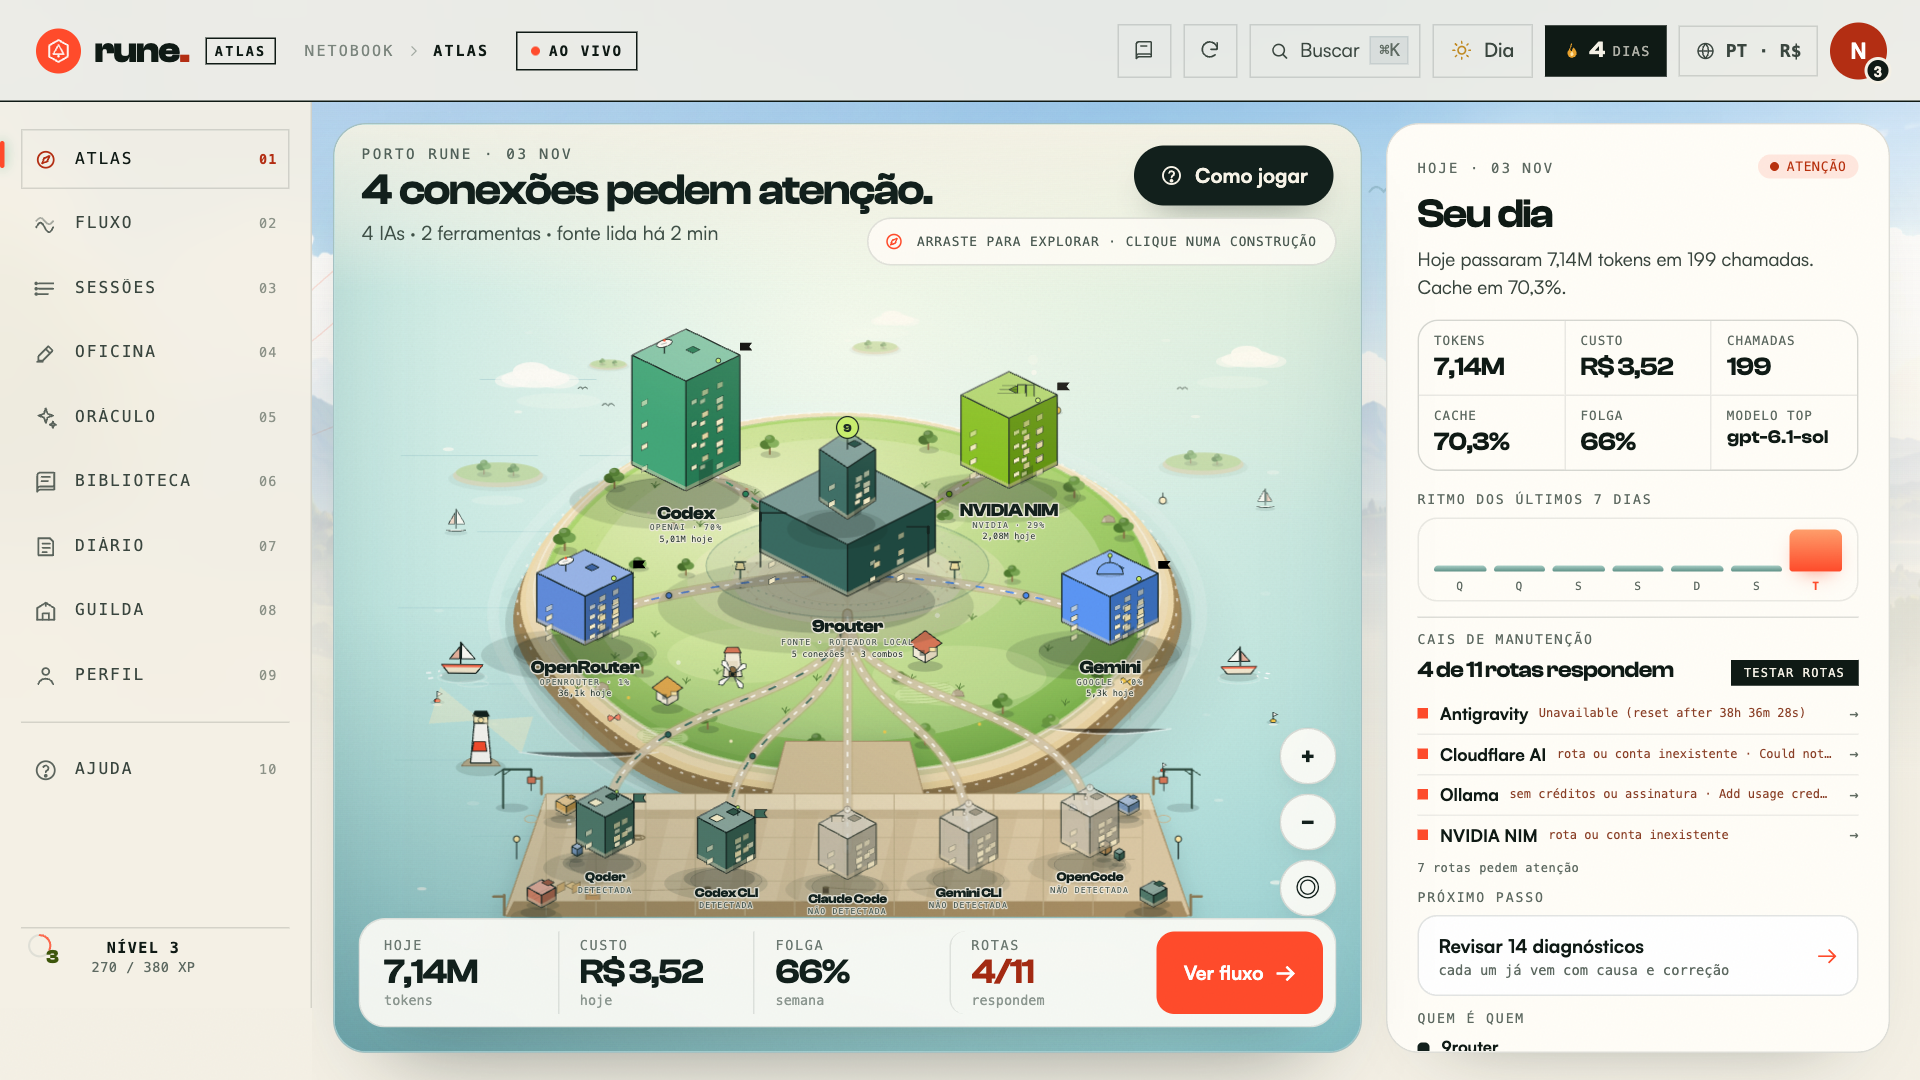
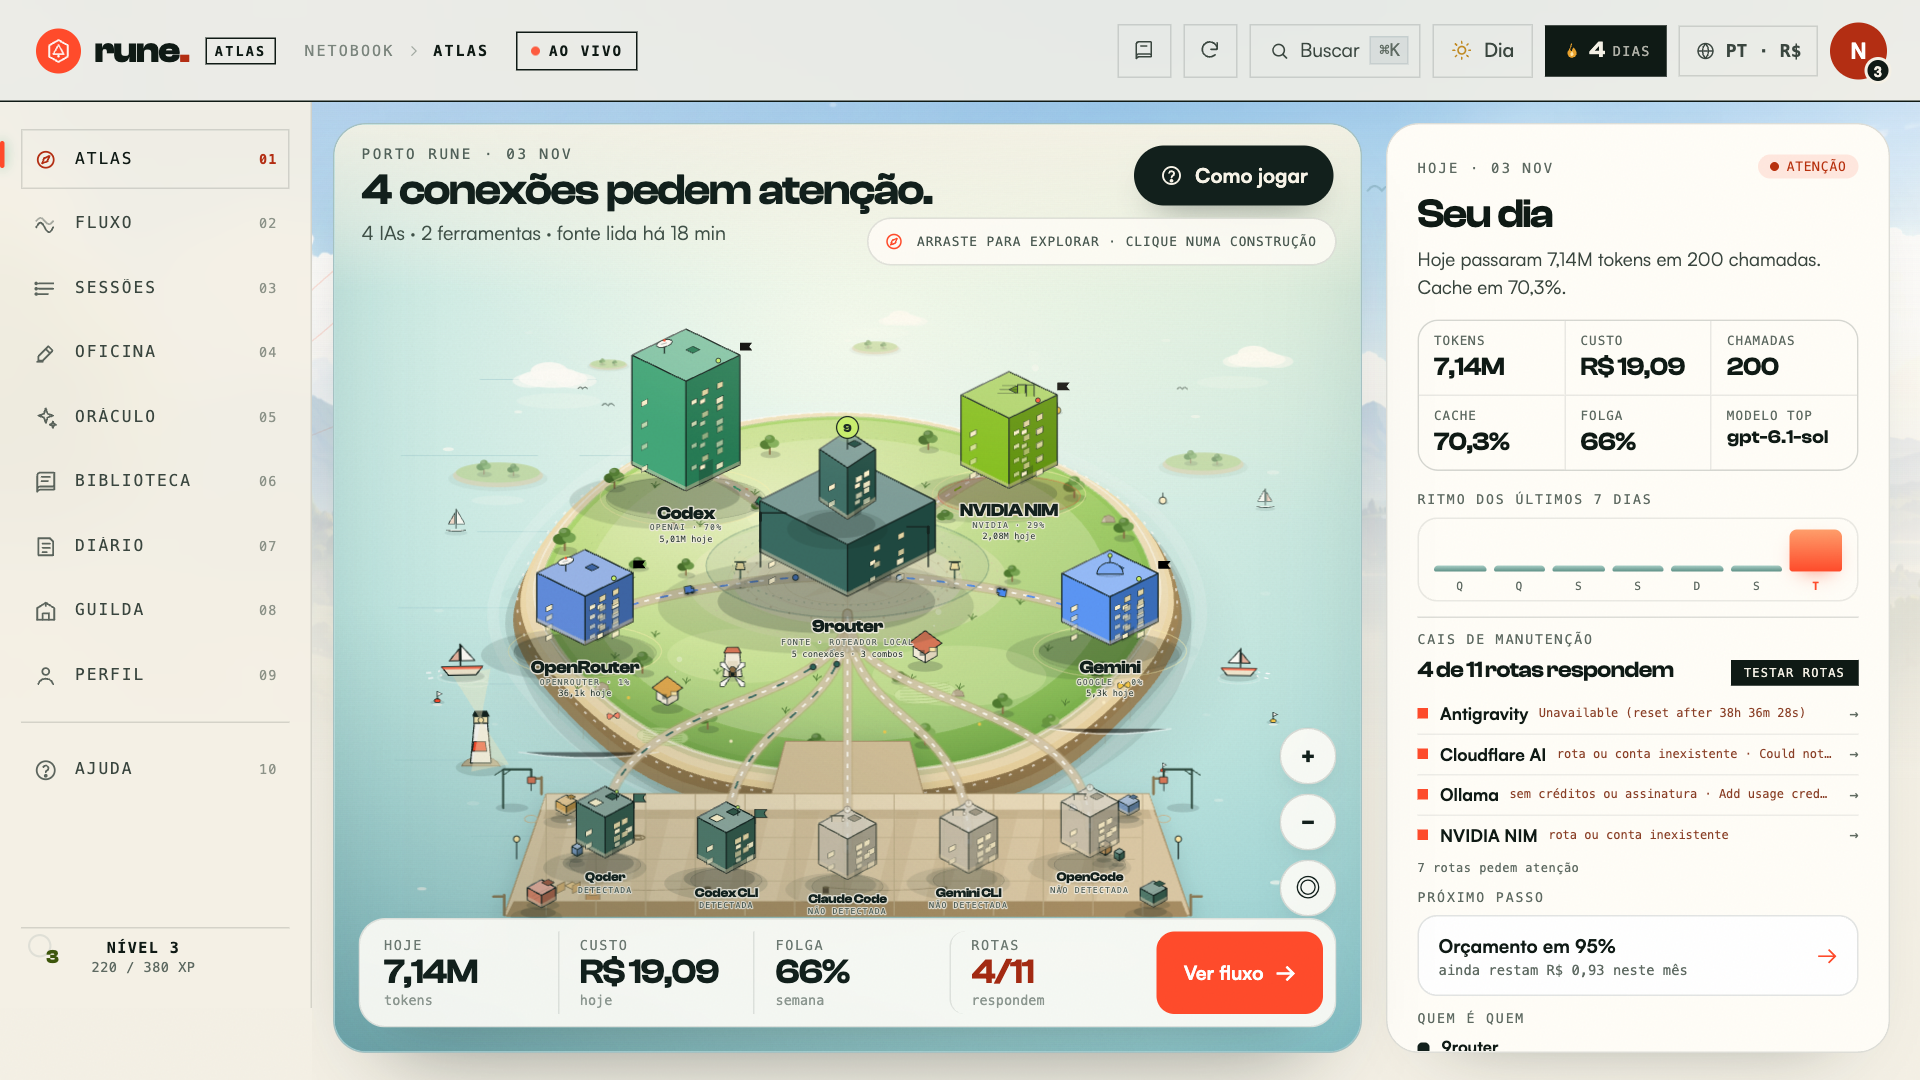
Corrige a base monetária para USD e instala o painel como serviço
O 9router grava custo em USD, mas o painel exibia o valor como BRL e ainda
dividia pela taxa: o gasto em reais aparecia ~5x menor. A base agora é USD,
BRL e EUR são convertidos só na exibição e no formulário, orçamentos antigos
são migrados uma vez e CSV e métricas passam a dizer _usd. O /metrics ganha
cache de 20 s (RUNE_METRICS_TTL) e o novo ./install.sh registra um agente
launchd com KeepAlive, logs e --uninstall.

diff --git a/app.js b/app.js
@@ -25,17 +25,16 @@
   const int = (v) => nfFor({ maximumFractionDigits: 0 }).format(Math.round(Number(v) || 0));
   const pct = (v, digits = 1) => `${dec(v, digits)}%`;
   const CURRENCIES = { BRL: "R$", USD: "$", EUR: "€" };
-  const toDisplay = (v) => {
-    const n = Number(v) || 0;
-    if (state.currency === "BRL") return n;
-    const rate = Number(state.rates?.[state.currency]) || 1;
-    return n / rate;
+  // O 9router grava custo em USD. As taxas guardadas são "quantos BRL valem 1 USD/EUR".
+  const ratePerUsd = (code) => {
+    const brl = Number(state.rates.USD) > 0 ? Number(state.rates.USD) : 1;
+    if (code === "USD") return 1;
+    if (code === "BRL") return brl;
+    const local = Number(state.rates[code]) > 0 ? Number(state.rates[code]) : brl;
+    return brl / local;
   };
-  const fromDisplay = (v) => {
-    const n = Number(v) || 0;
-    if (state.currency === "BRL") return n;
-    return n * (Number(state.rates?.[state.currency]) || 1);
-  };
+  const toDisplay = (v) => (Number(v) || 0) * ratePerUsd(state.currency);
+  const fromDisplay = (v) => (Number(v) || 0) / ratePerUsd(state.currency);
   const money = (v) => {
     const opts = { style: "currency", currency: state.currency, minimumFractionDigits: 2, maximumFractionDigits: 2 };
     try { return nfFor(opts).format(toDisplay(v)); }
@@ -326,6 +325,25 @@
     probes: {},
     probingAll: false,
   };
+
+  // A base de custo passou de "BRL presumido" para USD, como o 9router grava.
+  // Orçamentos antigos são convertidos uma única vez para manter o mesmo valor exibido.
+  if (store.get("costBase") !== "USD") {
+    if (state.budgets.global || Object.keys(state.budgets.providers).length) {
+      const brl = ratePerUsd("BRL");
+      const providers = {};
+      Object.entries(state.budgets.providers).forEach(([key, value]) => {
+        providers[key] = Math.round((value / brl) * 100) / 100;
+      });
+      state.budgets = normalizeBudgets({
+        ...state.budgets,
+        global: state.budgets.global ? state.budgets.global / brl : null,
+        providers,
+      });
+      store.set("budgets", state.budgets);
+    }
+    store.set("costBase", "USD");
+  }
 
   const railIcon = (key) => {
     const svg = document.querySelector(`.rail-btn[data-wing="${key}"] svg`);
@@ -2289,9 +2307,10 @@
     const today = S.today;
     const freeShare = t.tokens ? ((S.insights?.freeTokensEstimate || 0) / t.tokens) * 100 : 0;
     const reviewed = Math.min(2, state.reviewed.size);
+    const dailyCap = 1; // US$ 1/dia, a base em que o 9router registra custo
     return [
       { id: "cache", title: tr("quests.cacheTitle"), sub: tr("quests.cacheSub", { pct: pct(t.cacheHit) }), progress: clamp((t.cacheHit / 65) * 100), done: t.cacheHit >= 65, xp: 60 },
-      { id: "budget", title: tr("quests.budgetTitle", { limit: money(5) }), sub: tr("quests.budgetSub", { cost: money(today.cost) }), progress: clamp(today.cost <= 5 ? 100 : (5 / today.cost) * 100), done: today.cost <= 5, xp: 50 },
+      { id: "budget", title: tr("quests.budgetTitle", { limit: money(dailyCap) }), sub: tr("quests.budgetSub", { cost: money(today.cost) }), progress: clamp(today.cost <= dailyCap ? 100 : (dailyCap / today.cost) * 100), done: today.cost <= dailyCap, xp: 50 },
       { id: "errors", title: tr("quests.errorsTitle"), sub: tr("quests.errorsSub", { n: reviewed }), progress: clamp((reviewed / 2) * 100), done: reviewed >= 2, xp: 70 },
       { id: "free", title: tr("quests.freeTitle"), sub: tr("quests.freeSub", { pct: pct(freeShare) }), progress: clamp((freeShare / 25) * 100), done: freeShare >= 25, xp: 60 },
       { id: "explore", title: tr("quests.exploreTitle"), sub: tr("quests.exploreSub", { n: Math.min(3, state.visited.size) }), progress: clamp((state.visited.size / 3) * 100), done: state.visited.size >= 3, xp: 30 },
@@ -3285,8 +3304,8 @@
     const S = state.snap;
     if (!S) return;
     const providers = (S.providers || []).map((p) => p.provider);
-    const head = ["date", "requests", "tokens", "input", "cached", "cost_brl",
-      ...providers.flatMap((p) => [`${p}_tokens`, `${p}_requests`, `${p}_cost_brl`])];
+    const head = ["date", "requests", "tokens", "input", "cached", "cost_usd",
+      ...providers.flatMap((p) => [`${p}_tokens`, `${p}_requests`, `${p}_cost_usd`])];
     const lines = [head.join(",")];
     (S.series || []).forEach((d) => {
       lines.push([
@@ -3299,7 +3318,7 @@
       ].join(","));
     });
     lines.push("");
-    lines.push("provider,requests,tokens,cost_brl,p50_ms,p95_ms,ttft_p50_ms,error_rate_pct");
+    lines.push("provider,requests,tokens,cost_usd,p50_ms,p95_ms,ttft_p50_ms,error_rate_pct");
     (S.providers || []).forEach((p) => {
       const slo = (S.slo?.providers || []).find((x) => x.provider === p.provider) || {};
       lines.push([p.provider, p.requests, p.tokens, Number(p.cost || 0).toFixed(4), slo.p50 || "", slo.p95 || "", slo.ttftP50 || "", slo.errorRate ?? ""].join(","));

diff --git a/tests/test_contract.py b/tests/test_contract.py
@@ -4,7 +4,9 @@ from __future__ import annotations
 
 import json
 import os
+import plistlib
 import re
+import subprocess
 import sys
 import tempfile
 import unittest
@@ -263,7 +265,7 @@ class MetricsTests(unittest.TestCase):
             "rune_up 1",
             "rune_tokens_today 10",
             "rune_requests_today 2",
-            "rune_cost_today_brl 0.25",
+            "rune_cost_today_usd 0.25",
             "rune_cache_hit_ratio 0.5",
             "rune_errors_open 0",
             "rune_router_age_seconds 5",
@@ -279,6 +281,15 @@ class MetricsTests(unittest.TestCase):
 
     def test_escape_label(self):
         self.assertEqual(server._escape_label('a"b\\c\nd'), 'a\\"b\\\\c d')
+
+    def test_metrics_body_is_cached(self):
+        with mock.patch.object(server, "_metrics_cache", {"at": 0.0, "body": ""}), \
+                mock.patch.object(server, "METRICS_TTL", 60.0), \
+                mock.patch.object(server, "prometheus_metrics", return_value="rune_up 1\n") as build:
+            first = server.metrics_body()
+            second = server.metrics_body()
+        self.assertEqual(first, second)
+        self.assertEqual(build.call_count, 1)
 
 
 class FleetPersistenceTests(unittest.TestCase):
@@ -330,6 +341,47 @@ class FleetPersistenceTests(unittest.TestCase):
         (self.dir / "fleet.json").write_text("{not json", encoding="utf-8")
         with mock.patch.object(server, "FLEET_FILE", self.dir / "fleet.json"):
             self.assertEqual(server._load_fleet_state(), {})
+
+
+class InstallerTests(unittest.TestCase):
+    def _run(self, *args, **env_overrides):
+        env = {
+            **os.environ,
+            "RUNE_PYTHON": sys.executable,
+            "RUNE_PORT": "8899",
+            **env_overrides,
+        }
+        return subprocess.run(["bash", str(ROOT / "install.sh"), *args],
+                              capture_output=True, text=True, env=env)
+
+    def test_print_plist_is_a_valid_launchd_job(self):
+        with tempfile.TemporaryDirectory() as raw:
+            home = Path(raw)
+            proc = self._run("--print-plist", HOME=raw,
+                             AI_USAGE_HOME=str(home / "ai-usage"),
+                             RUNE_LOGS=str(home / "logs"))
+            self.assertEqual(proc.returncode, 0, proc.stderr)
+            plist = plistlib.loads(proc.stdout.encode("utf-8"))
+        self.assertEqual(plist["Label"], "com.netorojas.rune")
+        self.assertEqual(plist["ProgramArguments"], [sys.executable, str(ROOT / "server.py")])
+        self.assertEqual(plist["WorkingDirectory"], str(ROOT))
+        self.assertEqual(plist["EnvironmentVariables"]["RUNE_PORT"], "8899")
+        self.assertEqual(plist["EnvironmentVariables"]["AI_USAGE_HOME"], str(home / "ai-usage"))
+        self.assertEqual(plist["EnvironmentVariables"]["RUNE_NO_OPEN"], "1")
+        self.assertTrue(plist["RunAtLoad"])
+        self.assertIs(plist["KeepAlive"], True)
+        self.assertEqual(plist["StandardOutPath"], str(home / "logs" / "rune.out.log"))
+
+    def test_rejects_invalid_port(self):
+        proc = self._run("--print-plist", RUNE_PORT="abc")
+        self.assertNotEqual(proc.returncode, 0)
+        self.assertIn("RUNE_PORT", proc.stderr)
+
+    def test_help_documents_the_three_actions(self):
+        proc = self._run("--help")
+        self.assertEqual(proc.returncode, 0, proc.stderr)
+        for flag in ("--print-plist", "--uninstall"):
+            self.assertIn(flag, proc.stdout)
 
 
 class IndexWiringTests(unittest.TestCase):

diff --git a/server.py b/server.py
@@ -1174,7 +1174,7 @@ def prometheus_metrics() -> str:
     _metric(lines, "rune_snapshot_timestamp_seconds", "gauge", "Unix time of this snapshot.", [(None, int(time.time()))])
     _metric(lines, "rune_tokens_today", "gauge", "Tokens consumed today.", [(None, int(today.get("tokens") or 0))])
     _metric(lines, "rune_requests_today", "gauge", "Requests made today.", [(None, int(today.get("requests") or 0))])
-    _metric(lines, "rune_cost_today_brl", "gauge", "Estimated cost today in BRL.", [(None, round(float(today.get("cost") or 0), 6))])
+    _metric(lines, "rune_cost_today_usd", "gauge", "Estimated cost today in USD (9router base).", [(None, round(float(today.get("cost") or 0), 6))])
     _metric(lines, "rune_cache_hit_ratio", "gauge", "Share of input tokens served from cache (0-1).", [(None, round(float(totals.get("cacheHit") or 0) / 100, 4))])
     _metric(lines, "rune_errors_open", "gauge", "Grouped error diagnostics in the window.", [(None, len(snap.get("errors") or []))])
     for key in ("router_age", "collector_age", "qoder_age"):
@@ -1185,7 +1185,7 @@ def prometheus_metrics() -> str:
             [({"provider": p.get("provider")}, int(p.get("tokens") or 0)) for p in snap.get("providers") or []])
     _metric(lines, "rune_provider_requests", "gauge", "Requests per provider in the window.",
             [({"provider": p.get("provider")}, int(p.get("requests") or 0)) for p in snap.get("providers") or []])
-    _metric(lines, "rune_provider_cost_brl", "gauge", "Estimated cost per provider in BRL.",
+    _metric(lines, "rune_provider_cost_usd", "gauge", "Estimated cost per provider in USD (9router base).",
             [({"provider": p.get("provider")}, round(float(p.get("cost") or 0), 6)) for p in snap.get("providers") or []])
     _metric(lines, "rune_provider_share_ratio", "gauge", "Token share per provider (0-1).",
             [({"provider": p.get("provider")}, round(float(p.get("share") or 0) / 100, 4)) for p in snap.get("providers") or []])
@@ -1343,6 +1343,26 @@ def security_audit() -> dict:
     }
 
 
+_metrics_lock = threading.Lock()
+_metrics_cache: dict = {"at": 0.0, "body": ""}
+try:
+    METRICS_TTL = max(0.0, float(os.environ.get("RUNE_METRICS_TTL", "20")))
+except ValueError:
+    METRICS_TTL = 20.0
+
+
+def metrics_body() -> str:
+    """Prometheus bate a cada 15 s; o snapshot é caro, então o corpo é reaproveitado por alguns segundos."""
+    now = time.time()
+    with _metrics_lock:
+        if _metrics_cache["body"] and now - _metrics_cache["at"] < METRICS_TTL:
+            return _metrics_cache["body"]
+    body = prometheus_metrics()
+    with _metrics_lock:
+        _metrics_cache.update({"at": now, "body": body})
+    return body
+
+
 class Handler(BaseHTTPRequestHandler):
     server_version = "rune-live/0.1"
 
@@ -1402,7 +1422,7 @@ class Handler(BaseHTTPRequestHandler):
                 self._json(500, {"ok": False, "error": "falha na auditoria", "detail": _clean(str(exc), 200)})
         elif path == "/metrics":
             try:
-                body = prometheus_metrics().encode("utf-8")
+                body = metrics_body().encode("utf-8")
             except Exception as exc:  # noqa: BLE001
                 self._json(500, {"error": "falha ao gerar métricas", "detail": _clean(str(exc), 200)})
                 return

diff --git a/README.md b/README.md
@@ -45,11 +45,11 @@ Ferramentas de IA cobram por token, por crédito e por janela de uso. O gasto re
 
 - **Frota viva** lida do 9router em `/v1/models`: cada IA plugada, quantos modelos ela tem, contexto máximo e capacidades (visão, ferramentas, raciocínio, gratuito).
 - **Sonda de orquestração** ("Testar rotas"): prova com uma chamada de 1 token se a rota responde de verdade, sem depender do que o catálogo promete. O resultado fica em `.rune-data/fleet.json` (`0600`) e sobrevive ao reload; o número "X de 11 rotas respondem" aparece no dock do Atlas.
-- **Orçamentos** em BRL, USD ou EUR, com limite global, limite por provedor e marcador de alerta (60–90%).
+- **Orçamentos** em BRL, USD ou EUR, com limite global, limite por provedor e marcador de alerta (60–90%). O custo-base é USD, como o 9router grava; a conversão acontece só na exibição e no formulário.
 - **Motor de alertas** para orçamento estourado, cota baixa, cache abaixo da meta, erros e coleta parada.
 - **SLO por provedor** na janela de 7 dias: p50, p95, tempo até o primeiro token e taxa de erro.
-- **Exportação CSV** com série diária e resumo por provedor.
-- **Endpoint Prometheus** em `/metrics` para plugar no Grafana.
+- **Exportação CSV** com série diária e resumo por provedor, em `cost_usd`.
+- **Endpoint Prometheus** em `/metrics` (`rune_cost_today_usd`, `rune_provider_cost_usd`) com cache de 20 s para não remontar o snapshot a cada scrape.
 - **Auditoria local** de permissões de arquivo, segredos em texto, exposição do 9router e exigência de API key.
 - **Manual "Como jogar"** em 5 passos, com checklist ao vivo do que já está funcionando.
 - **Idiomas** PT-BR, EN e ES, com troca imediata e moeda BRL/USD/EUR (taxas editáveis).
@@ -79,6 +79,18 @@ Se você já usa o coletor em `~/.ai-usage`:
 AI_USAGE_HOME="$HOME/.ai-usage" python3 server.py
 ```
 
+### Instalar como serviço (macOS)
+
+```bash
+./install.sh
+```
+
+O instalador registra um agente `launchd` de usuário (`com.netorojas.rune`) apontando para este clone: o painel sobe no login, reinicia se cair e grava logs em `~/Library/Logs/Rune`. Não usa `sudo`, não copia o código e não mexe no 9router.
+
+- Atualizar: `git pull && ./install.sh`
+- Remover o serviço: `./install.sh --uninstall` (dados, logs e o clone ficam)
+- Conferir o plist sem instalar: `./install.sh --print-plist`
+
 ### Testes
 
 ```bash
@@ -98,6 +110,7 @@ O CI em `.github/workflows/ci.yml` roda os mesmos comandos a cada push e pull re
 | `AI_USAGE_HOME` | `~/.ai-usage` | Onde ficam `data.json`, `config.json` e o coletor. |
 | `RUNE_NO_OPEN` | vazio | Defina `1` para o `run.sh` não abrir o navegador. |
 | `RUNE_OPERATOR` | nome do sistema | Como o Rune chama você (também editável no Perfil). |
+| `RUNE_METRICS_TTL` | `20` | Segundos de cache do `/metrics` (o snapshot é caro; Prometheus bate a cada 15 s). |
 
 ## API local
 
@@ -195,7 +208,7 @@ cd rune
 ./run.sh
 ```
 
-Requires macOS, Python 3.10+ and a local 9router database at `~/.9router/db/data.sqlite`. The dashboard runs at `http://127.0.0.1:8770`.
+Requires macOS, Python 3.10+ and a local 9router database at `~/.9router/db/data.sqlite`. The dashboard runs at `http://127.0.0.1:8770`. Run `./install.sh` to register a per-user launchd agent so the panel starts at login and restarts if it crashes.
 
 ### Privacy contract
 
